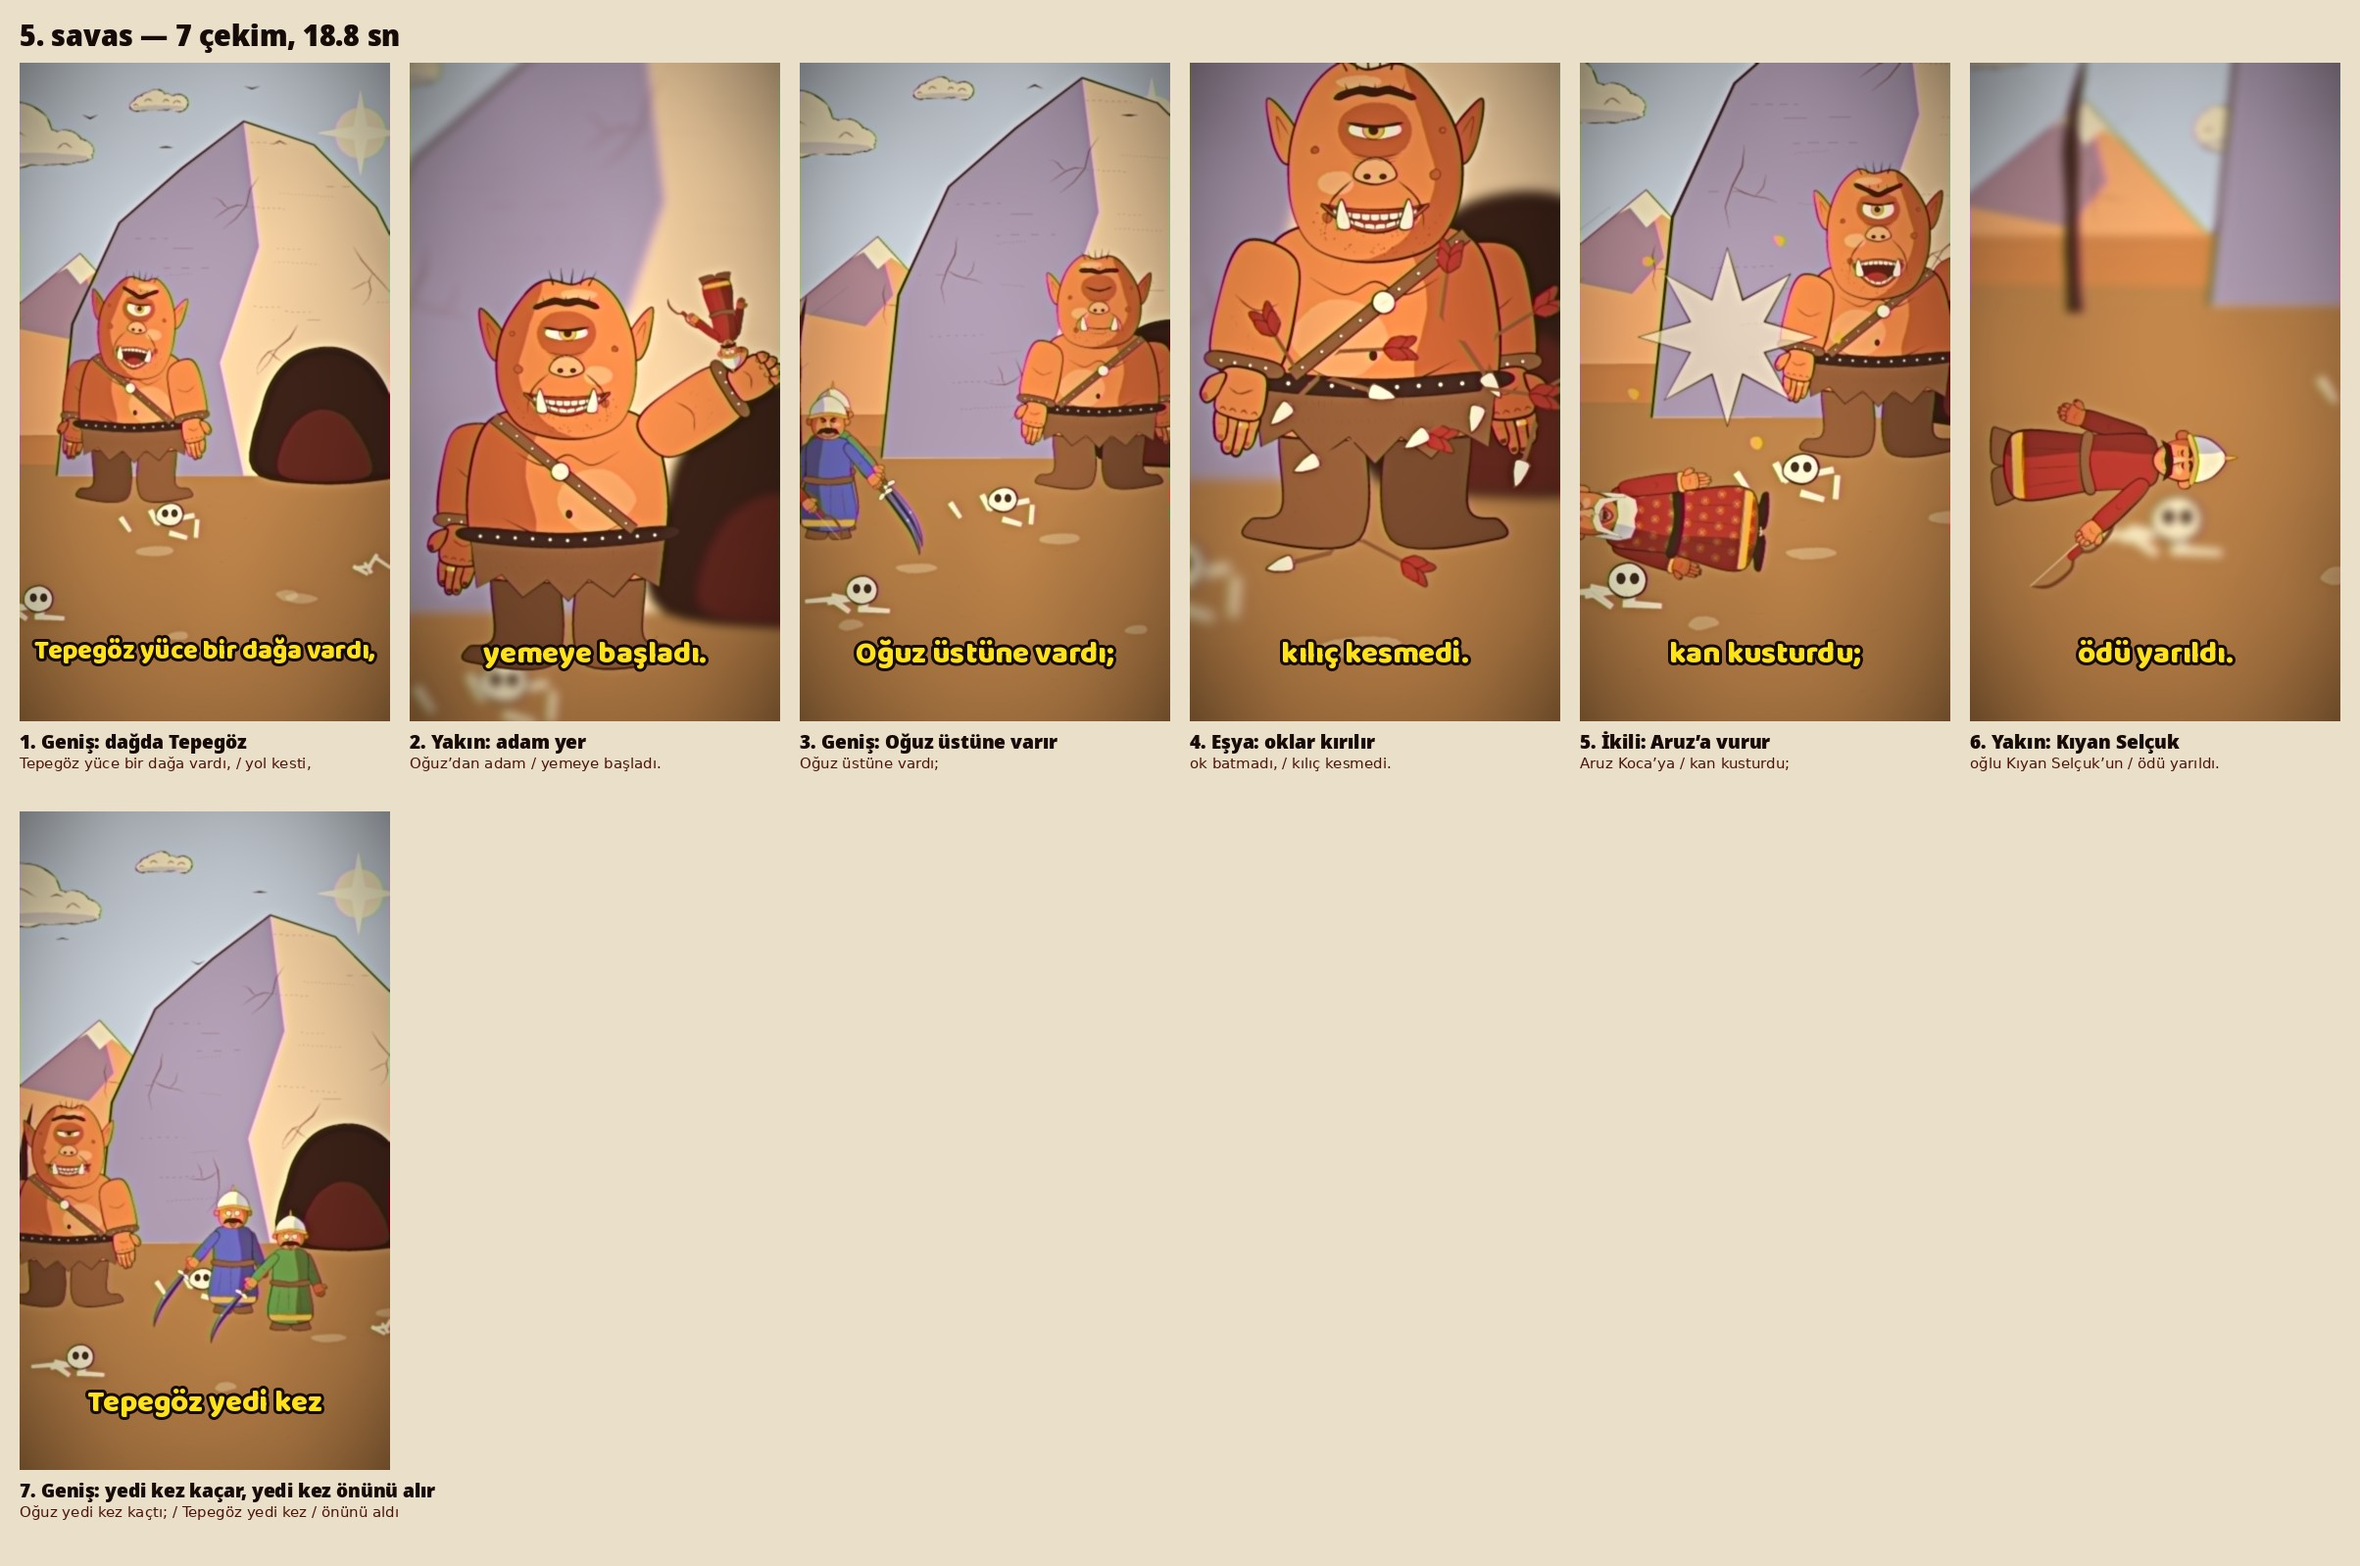
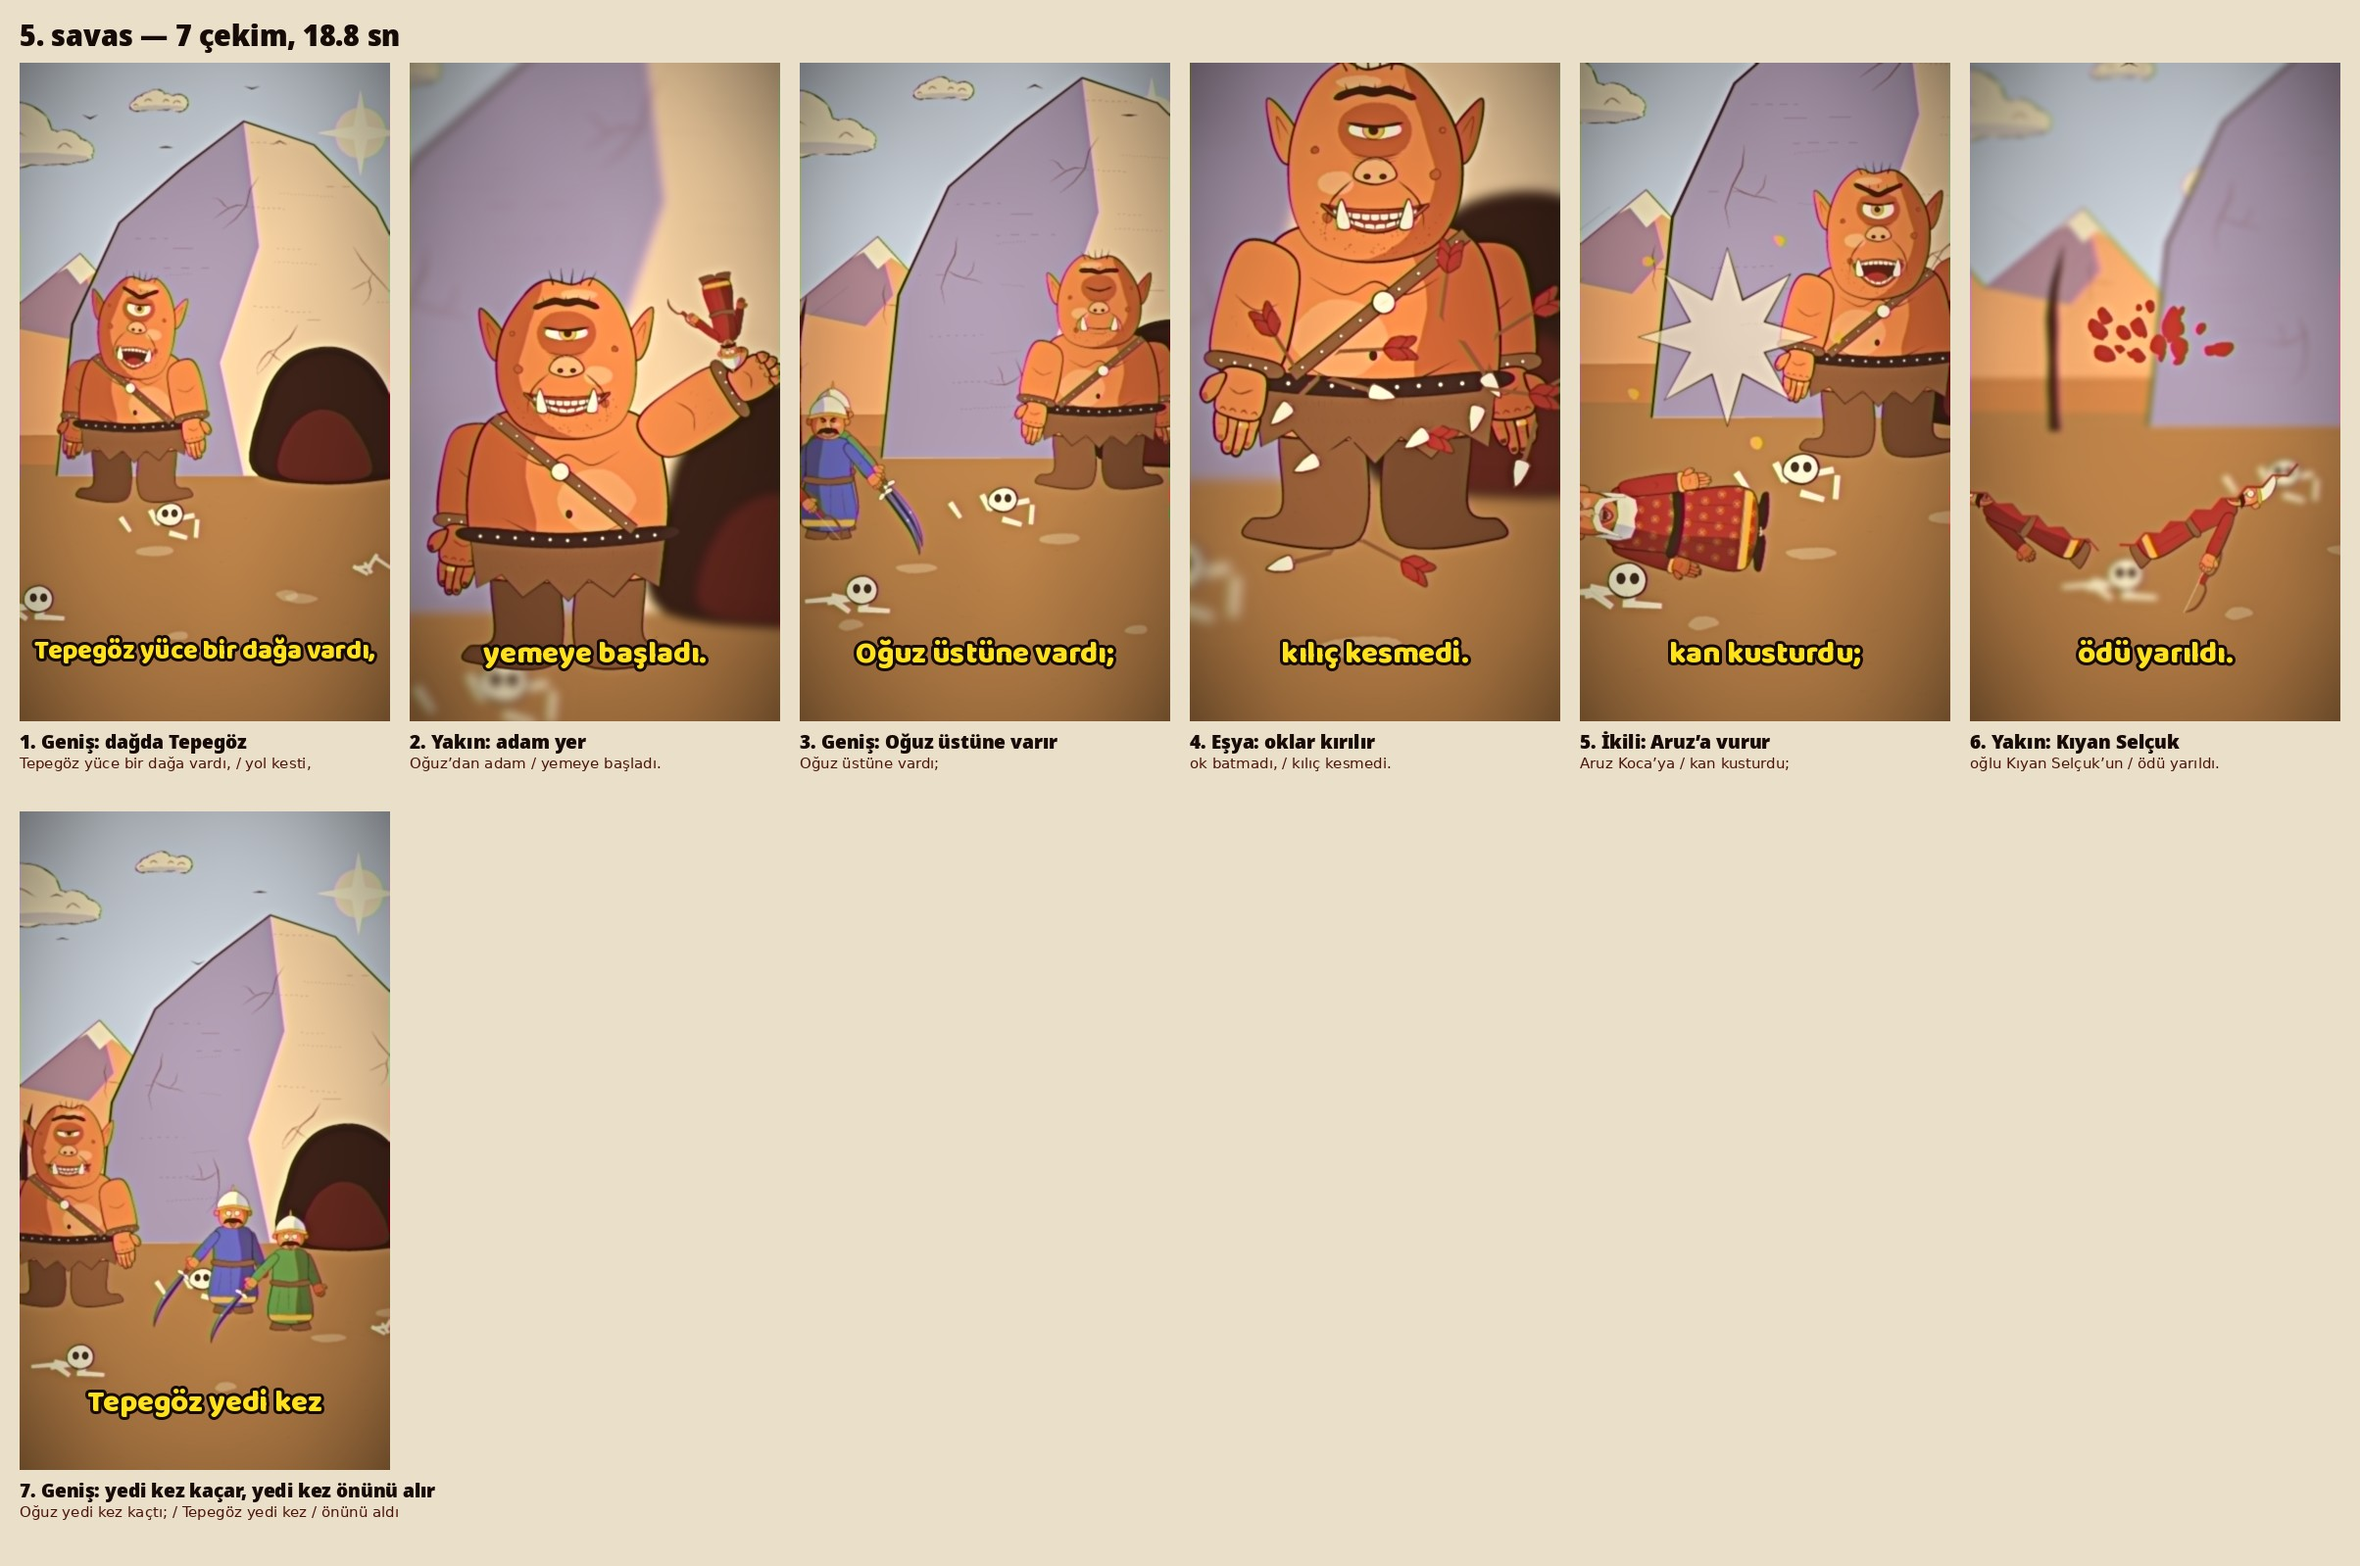
Basat ile Tepegöz: Kıyan Selçuk'un ödü yarılırken gövdesi ikiye ayrılır, kan fışkırır

Changed region(s): [[0.8098, 0.0307, 0.9967, 0.3986]]

diff --git a/shorts/tepegoz/scenes.py b/shorts/tepegoz/scenes.py
@@ -22,7 +22,34 @@ def _kepenek(p, e):
     return s + dashrow([(-196, -30), (196, -30)], 16, 9, 0.2, 2.0, smooth=False) + ink([(0, -20), (4, 200), (0, 440)], 2.2, wob=0.6, op=0.6)
 
 
+def _yarik(p, e):
+    """Ödü yarılan yiğit: gövde tepeden tırnağa zikzak bir çizgiyle ikiye ayrılır, yarılar iki yana devrilir. split: 0..1."""
+    k = max(0.0, min(1.0, g(p, 'split', 0.0)))
+    body = T.alp(1, e)
+    if k <= 0: return body
+    zz = [((14 if i % 2 else -14), -320 + i * 60) for i in range(15)]
+    s = '<defs>' + ''.join(f'<clipPath id="yarik{sx}"><path d="M' + ' L'.join(f'{x:.0f},{y:.0f}' for x, y in [(sx * 700, -400)] + zz + [(sx * 700, 540)]) + 'Z"/></clipPath>' for sx in (-1, 1)) + '</defs>'
+    for sx in (-1, 1):
+        half = f'<g clip-path="url(#yarik{sx})">{body}</g>' + ink(zz, 9, col=T.RED, op=1, wob=0, taper=(0, 0), smooth=False)
+        s += group(half, sx * 46 * k, 0, sx * 66 * k * k, 1, None, sx * 60, 480)
+    return s
+
+
+def fx_spurt(x=540, y=700, t0=0.35):
+    """Yarıktan fışkıran kan: t0'dan sonra yukarı ve iki yana saçılır, sonra düşer."""
+    def fx(u):
+        v = (u - t0) / (1 - t0)
+        if v <= 0: return ''
+        reseed('fx-spurt'); k = ease(min(1, v * 2.2)); s = ''
+        for _ in range(26):
+            a = R(-2.9, -0.25); d = R(120, 520) * k; r = R(9, 26) * (1 - 0.4 * v)
+            s += fill(ellipse(x + math.cos(a) * d, y + math.sin(a) * d + 700 * v * v, r, r * R(1.1, 1.9), 7, 0.2, a + 1.57), T.RED, 0.6)
+        return s
+    return fx
+
+
 E.KINDS.update({
+    'yarik': (480, _yarik),
     'tepegoz': (712, lambda p, e: T.tepegoz(e, g(p, 'armL', 10), g(p, 'armR', -10), g(p, 'hr'), g(p, 'poseR', 'open'), g(p, 'child', False))),
     'basat': (480, lambda p, e: T.basat(e, g(p, 'armL', 10), g(p, 'armR', -10), g(p, 'hr'), g(p, 'poseR', 'open'), g(p, 'bow', False), g(p, 'sword', False))),
     'aruz': (602, lambda p, e: T.aruz(e, g(p, 'armL', 12), g(p, 'armR', -12), g(p, 'hr'))),
@@ -206,8 +233,8 @@ SCENES['savas'] = [
          a=[('tepegoz', dict(RK_T, x=900, e='laugh', flip=True))], fx=fx_arrows(8)),
     dict(n='İkili: Aruz’a vurur', c='Aruz Koca’ya|kan kusturdu;', set='rock', cam=[(640, 1120, 1.4), (600, 1140, 1.5)], punch=True,
          a=[('tepegoz', dict(RK_T, x=900, e='anger', flip=True, armL=10), dict(armL=110, x=820), 0.1), ('aruz', dict(x=440, y=1190, s=0.5, e='anger'), dict(e='shock', rot=-84, x=300, y=1480, arc=90, land=0.8), 0.25)], fx=fx_impact(430, 800)),
-    dict(n='Yakın: Kıyan Selçuk', c='oğlu Kıyan Selçuk’un|ödü yarıldı.', set='rock', cam=[(300, 1260, 1.9), (300, 1380, 2.0)], blur=True,
-         a=[('alp1', dict(x=300, y=1280, s=0.5, e='fear', shake=1), dict(e='blink', rot=88, y=1520, land=0.75, arc=40, shake=0), 0.35)]),
+    dict(n='Yakın: Kıyan Selçuk', c='oğlu Kıyan Selçuk’un|ödü yarıldı.', set='rock', cam=[(300, 1220, 1.5), (300, 1240, 1.3)], blur=True,
+         a=[('yarik', dict(x=300, y=1330, s=0.5, e='fear', shake=1, split=0.0), dict(e='shock', split=1.0, shake=0), 0.5)], fx=fx_spurt(540, 880, 0.52)),
     dict(n='Geniş: yedi kez kaçar, yedi kez önünü alır', c='Oğuz yedi kez kaçtı;|Tepegöz yedi kez|önünü aldı.', set='rock', cam=[(800, 1150, 1.05), (620, 1150, 1.05)], hold=0.4,
          a=[('alp0', dict(x=1000, y=1260, s=0.48, e='fear', flip=True, walk=True), dict(x=640, glide=True), 0.0), ('alp2', dict(x=1160, y=1300, s=0.48, e='fear', flip=True, walk=True), dict(x=800, glide=True), 0.0),
             ('tepegoz', dict(RK_T, x=1500, y=1100, e='laugh'), dict(x=300, arc=520, land=0.8), 0.25)]),
